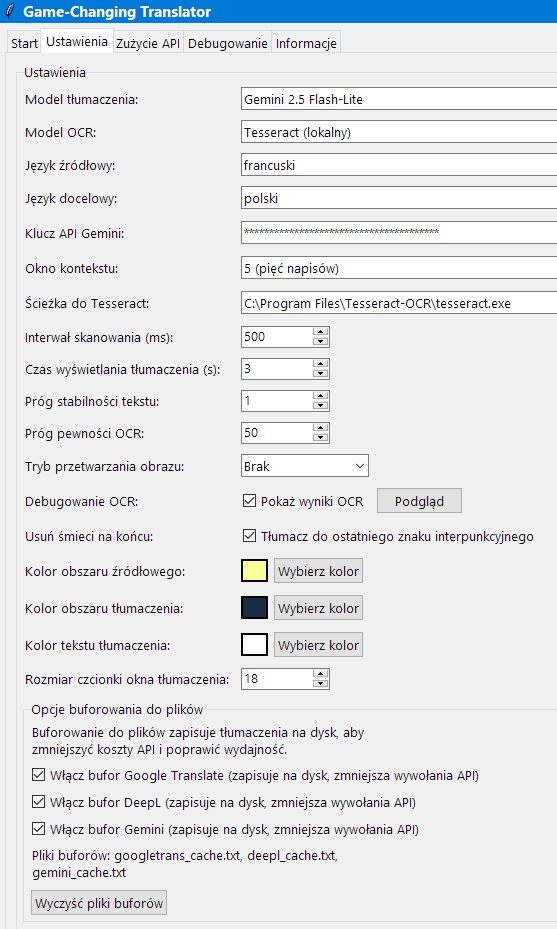
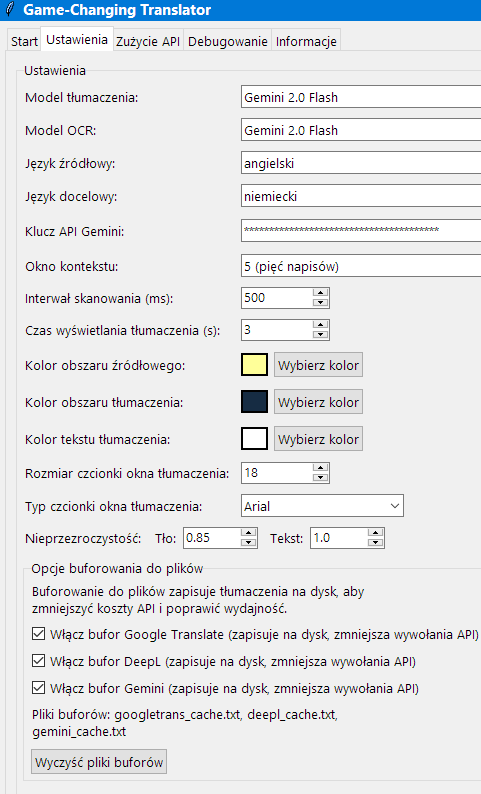
Docs update

Changed region(s): [[0.0, 0.0, 1.0, 0.9975], [0.7484, 0.665, 0.8108, 0.6952], [0.8108, 0.6348, 0.842, 0.665]]

diff --git a/docs/installation_pl.html b/docs/installation_pl.html
@@ -149,7 +149,7 @@
     </div>
     <h1 id="installation-guide">Instrukcja instalacji</h1>
     <p>Copyright © 2025 Tomasz Kamiński<br>
-    <em>Ostatnia aktualizacja: 15 sierpnia 2025</em></p>
+    <em>Ostatnia aktualizacja: 6 września 2025</em></p>
 
     <p>Niniejsza instrukcja zawiera szczegółowe informacje dotyczące instalacji i konfiguracji programu <strong>Game-Changing Translator</strong>.</p>
 
@@ -194,7 +194,7 @@
     <h3 id="choose-your-version">Wybór wersji</h3>
     <p><strong>Game-Changing Translator</strong> dostępny jest w kilku wersjach dopasowanych do różnych potrzeb i konfiguracji sprzętowych:</p>
 
-    <h4 id="version-357-cpu-only-267mb-latest"><strong>Wersja 3.5.7 - wyłącznie CPU</strong> (ok. 267 MB) <em>[Najnowsza wersja]</em></h4>
+    <h4 id="version-357-cpu-only-267mb-latest"><strong>Wersja 3.5.8 - wyłącznie CPU</strong> (ok. 267 MB) <em>[Najnowsza wersja]</em></h4>
     <ul>
       <li><strong>Najlepsza dla</strong>: wszystkich użytkowników poszukujących najnowszych funkcji z zaawansowanym systemem Gemini Translation + Gemini OCR</li>
       <li><strong>Wymagania</strong>: dowolny nowoczesny procesor</li>
@@ -226,9 +226,9 @@
       <li>
         <p><strong>Pobierz wymagane pliki</strong> wybranej wersji:</p>
         <ul>
-          <li><strong>Wersja 3.5.7 (najnowsza):</strong> pobierz plik:
+          <li><strong>Wersja 3.5.8 (najnowsza):</strong> pobierz plik:
             <ul>
-              <li><code>GameChangingTranslator_CPU-only_v3.5.7.exe</code></li>
+              <li><code>GameChangingTranslator_CPU-only_v3.5.8.exe</code></li>
             </ul>
           </li>
           <li><strong>Wersja 2 GPU:</strong> pobierz WSZYSTKIE 3 pliki:
@@ -415,7 +415,7 @@ cd OCR-Translator</code></pre>
       <thead>
         <tr>
           <th>Funkcja</th>
-          <th>Wersja 3.5.7 (CPU)</th>
+          <th>Wersja 3.5.8 (CPU)</th>
           <th>Wersja 2 (GPU)</th>
           <th>Wersja 2 (CPU)</th>
           <th>Źródłowa Python</th>
@@ -520,7 +520,7 @@ cd OCR-Translator</code></pre>
 
     <h2 id="which-version-should-i-choose">Którą wersję wybrać?</h2>
 
-    <h3 id="choose-version-35-if">Wybierz <strong>wersję 3.5.7 – tylko CPU</strong>, jeśli:</h3>
+    <h3 id="choose-version-35-if">Wybierz <strong>wersję 3.5.8 – tylko CPU</strong>, jeśli:</h3>
     <ul>
       <li>chcesz mieć najnowsze funkcje i usprawnienia,</li>
       <li>preferujesz zaawansowaną integrację z Gemini API zapewniającą wyższą jakość tłumaczeń,</li>
@@ -554,7 +554,7 @@ cd OCR-Translator</code></pre>
       <li>czujesz się swobodnie w środowiskach programistycznych Python.</li>
     </ul>
 
-    <p>Dla większości użytkowników <strong>Wersja 3.5.7 - wyłącznie CPU</strong> zapewnia najlepszy kompromis między nowoczesnymi funkcjami, jakością tłumaczeń, prostotą obsługi i rozmiarem pliku do pobrania. Użytkownicy, którzy intensywnie korzystają z tłumaczeń offline MarianMT i posiadają kompatybilny sprzęt NVIDIA, mogą preferować Wersję 2 - z obsługą GPU dla maksymalnej wydajności offline.</p>
+    <p>Dla większości użytkowników <strong>Wersja 3.5.8 - wyłącznie CPU</strong> zapewnia najlepszy kompromis między nowoczesnymi funkcjami, jakością tłumaczeń, prostotą obsługi i rozmiarem pliku do pobrania. Użytkownicy, którzy intensywnie korzystają z tłumaczeń offline MarianMT i posiadają kompatybilny sprzęt NVIDIA, mogą preferować Wersję 2 - z obsługą GPU dla maksymalnej wydajności offline.</p>
 
   </body>
 </html>

diff --git a/docs/installation.html b/docs/installation.html
@@ -149,7 +149,7 @@
     </div>
     <h1 id="installation-guide">Installation Guide</h1>
     <p>Copyright © 2025 Tomasz Kamiński<br>
-    <em>Last Updated: 15 August 2025</em></p>
+    <em>Last Updated: 6 September 2025</em></p>
 
     <p>This guide provides detailed instructions for installing and setting up Game-Changing Translator on your system.</p>
 
@@ -194,7 +194,7 @@
     <h3 id="choose-your-version">Choose Your Version</h3>
     <p>Game-Changing Translator is available in multiple versions to suit different needs and hardware configurations:</p>
 
-    <h4 id="version-357-cpu-only-267mb-latest"><strong>Version 3.5.7 - CPU-Only</strong> (~267MB) <em>[Latest Version]</em></h4>
+    <h4 id="version-357-cpu-only-267mb-latest"><strong>Version 3.5.8 - CPU-Only</strong> (~267MB) <em>[Latest Version]</em></h4>
     <ul>
       <li><strong>Best for</strong>: All users seeking the latest features with superior Gemini Translation + Gemini OCR workflow</li>
       <li><strong>Requirements</strong>: Any modern CPU</li>
@@ -226,9 +226,9 @@
       <li>
         <p><strong>Download the required files</strong> for your chosen version:</p>
         <ul>
-          <li><strong>For Version 3.5.7 (Latest):</strong> Download the file:
+          <li><strong>For Version 3.5.8 (Latest):</strong> Download the file:
             <ul>
-              <li><code>GameChangingTranslator_CPU-only_v3.5.7.exe</code></li>
+              <li><code>GameChangingTranslator_CPU-only_v3.5.8.exe</code></li>
             </ul>
           </li>
           <li><strong>For Version 2 GPU:</strong> Download ALL 3 files:
@@ -415,7 +415,7 @@ cd OCR-Translator</code></pre>
       <thead>
         <tr>
           <th>Feature</th>
-          <th>Version 3.5.7 (CPU)</th>
+          <th>Version 3.5.8 (CPU)</th>
           <th>Version 2 (GPU)</th>
           <th>Version 2 (CPU)</th>
           <th>Python Source</th>
@@ -520,7 +520,7 @@ cd OCR-Translator</code></pre>
 
     <h2 id="which-version-should-i-choose">Which Version Should I Choose?</h2>
 
-    <h3 id="choose-version-35-if">Choose <strong>Version 3.5.7 - CPU-Only</strong> if:</h3>
+    <h3 id="choose-version-35-if">Choose <strong>Version 3.5.8 - CPU-Only</strong> if:</h3>
     <ul>
       <li>You want the latest features and improvements.</li>
       <li>You prefer advanced Gemini API integration with superior translation quality.</li>
@@ -554,7 +554,7 @@ cd OCR-Translator</code></pre>
       <li>You're comfortable with Python development environments.</li>
     </ul>
 
-    <p>For most users, <strong>Version 3.5.7 - CPU-Only</strong> provides the best balance of modern features, translation quality, ease-of-use, and download size. Users who heavily rely on MarianMT offline translation and have compatible NVIDIA hardware may prefer Version 2 - GPU-Supported for maximum offline performance.</p>
+    <p>For most users, <strong>Version 3.5.8 - CPU-Only</strong> provides the best balance of modern features, translation quality, ease-of-use, and download size. Users who heavily rely on MarianMT offline translation and have compatible NVIDIA hardware may prefer Version 2 - GPU-Supported for maximum offline performance.</p>
 
   </body>
 </html>

diff --git a/docs/user-manual_pl.html b/docs/user-manual_pl.html
@@ -214,7 +214,7 @@
     </div>
     <h1 id="game-changing-translator-user-manual">Instrukcja obsługi programu Game-Changing Translator</h1>
     <p>Copyright © 2025 Tomasz Kamiński<br>
-    <em>Ostatnia aktualizacja: 31 lipca 2025 r.</em></p>
+    <em>Ostatnia aktualizacja: 6 września 2025 r.</em></p>
     <p>
       <img src="screenshots/screenshot2_pol_deepl.jpg" alt="Główny interfejs Game-Changing Translator" class="logo-image" />
     </p>

diff --git a/docs/user-manual.html b/docs/user-manual.html
@@ -214,7 +214,7 @@
     </div>
     <h1 id="game-changing-translator-user-manual">Game-Changing Translator User Manual</h1>
     <p>Copyright © 2025 Tomasz Kamiński<br>
-    <em>Last Updated: 31 July 2025</em></p>
+    <em>Last Updated: 6 September 2025</em></p>
     <p>
       <img src="screenshots/screenshot2_eng_deepl.jpg" alt="Game-Changing Translator Main Interface" class="logo-image" />
     </p>

diff --git a/constants.py b/constants.py
@@ -11,9 +11,9 @@ RTL_LANGUAGES = {
 }
 
 # Version Management - Centralized version control
-APP_VERSION = "v3.5.9"
-APP_RELEASE_DATE = "4 September 2025"
-APP_RELEASE_DATE_POLISH = "4 września 2025"
+APP_VERSION = "v3.5.8"
+APP_RELEASE_DATE = "6 September 2025"
+APP_RELEASE_DATE_POLISH = "6 września 2025"
 GITHUB_API_URL = "https://api.github.com/repos/tomkam1702/OCR-Translator/releases/latest"
 
 def parse_version(version_str):

diff --git a/README.md b/README.md
@@ -70,6 +70,29 @@ This application was developed or rather vibe-coded with the support of the foll
 
 ## Key Features
 
+### 🚀 NEW in Version 3.5.8
+
+- **Auto-Update System**: Complete auto-update functionality accessible through "Check for Updates" button in the About tab
+  - GitHub API integration for checking latest releases automatically
+  - Simple one-click update process with progress tracking
+  - Safe update application with user file preservation
+  - Staging system for secure update downloads and installation
+- **Enhanced Typography Customisation**: Target Window Font Type selection allowing users to choose any Windows system font for translation display
+  - Expanded beyond the previous default Arial font limitation
+  - Access to complete Windows font library for personalised translation appearance
+  - Improved readability options to suit individual preferences and visual requirements
+- **Advanced Opacity Controls**: Independent transparency management for translation windows
+  - Separate background and text opacity sliders providing independent control (0.0 to 1.0 range)
+  - Replaced previous fixed 0.85 opacity preset with flexible user-defined transparency levels
+  - Enhanced visual integration allowing translation windows to blend seamlessly with any background content
+- **Improved Subtitle Display**: Enhanced formatting of conversational subtitles with proper line breaks for better readability in dialog-heavy content
+  - Previous format: `   - How are you? - Fine.    `  
+  - New format with proper line separation:
+    ```
+        - How are you?
+        - Fine.                 
+    ```
+
 ### 🚀 NEW in Version 3.5.7
 
 - **Persian Language Support**: Added comprehensive Persian language support to both Gemini API and Google Translate translation services

diff --git a/docs/README.md b/docs/README.md
@@ -70,6 +70,29 @@ This application was developed or rather vibe-coded with the support of the foll
 
 ## Key Features
 
+### 🚀 NEW in Version 3.5.8
+
+- **Auto-Update System**: Complete auto-update functionality accessible through "Check for Updates" button in the About tab
+  - GitHub API integration for checking latest releases automatically
+  - Simple one-click update process with progress tracking
+  - Safe update application with user file preservation
+  - Staging system for secure update downloads and installation
+- **Enhanced Typography Customisation**: Target Window Font Type selection allowing users to choose any Windows system font for translation display
+  - Expanded beyond the previous default Arial font limitation
+  - Access to complete Windows font library for personalised translation appearance
+  - Improved readability options to suit individual preferences and visual requirements
+- **Advanced Opacity Controls**: Independent transparency management for translation windows
+  - Separate background and text opacity sliders providing independent control (0.0 to 1.0 range)
+  - Replaced previous fixed 0.85 opacity preset with flexible user-defined transparency levels
+  - Enhanced visual integration allowing translation windows to blend seamlessly with any background content
+- **Improved Subtitle Display**: Enhanced formatting of conversational subtitles with proper line breaks for better readability in dialog-heavy content
+  - Previous format: `   - How are you? - Fine.    `  
+  - New format with proper line separation:
+    ```
+        - How are you?
+        - Fine.                 
+    ```
+
 ### 🚀 NEW in Version 3.5.7
 
 - **Persian Language Support**: Added comprehensive Persian language support to both Gemini API and Google Translate translation services

diff --git a/CHANGELOG.md b/CHANGELOG.md
@@ -13,6 +13,14 @@ and this project adheres to [Semantic Versioning](https://semver.org/spec/v2.0.0
   - Simple one-click update process with progress tracking
   - Safe update application with user file preservation
   - Staging system for secure update downloads and installation
+- **Target Window Font Type Selection**: Enhanced typography customisation allowing selection of any Windows system font for translation display
+  - Expanded beyond the previous default Arial font limitation
+  - Access to complete Windows font library for personalised translation appearance
+  - Improved readability options to suit individual preferences and visual requirements
+- **Independent Opacity Controls**: Granular transparency management for enhanced translation window customisation
+  - Separate background and text opacity sliders providing independent control (0.0 to 1.0 range)
+  - Replaced previous fixed 0.85 opacity preset with flexible user-defined transparency levels
+  - Enhanced visual integration allowing translation windows to blend seamlessly with any background content
 
 ### Changed
 - **Improved Subtitle Display for Dialogs**: Enhanced formatting of conversational subtitles with proper line breaks

diff --git a/docs/CHANGELOG.md b/docs/CHANGELOG.md
@@ -13,6 +13,14 @@ and this project adheres to [Semantic Versioning](https://semver.org/spec/v2.0.0
   - Simple one-click update process with progress tracking
   - Safe update application with user file preservation
   - Staging system for secure update downloads and installation
+- **Target Window Font Type Selection**: Enhanced typography customisation allowing selection of any Windows system font for translation display
+  - Expanded beyond the previous default Arial font limitation
+  - Access to complete Windows font library for personalised translation appearance
+  - Improved readability options to suit individual preferences and visual requirements
+- **Independent Opacity Controls**: Granular transparency management for enhanced translation window customisation
+  - Separate background and text opacity sliders providing independent control (0.0 to 1.0 range)
+  - Replaced previous fixed 0.85 opacity preset with flexible user-defined transparency levels
+  - Enhanced visual integration allowing translation windows to blend seamlessly with any background content
 
 ### Changed
 - **Improved Subtitle Display for Dialogs**: Enhanced formatting of conversational subtitles with proper line breaks
